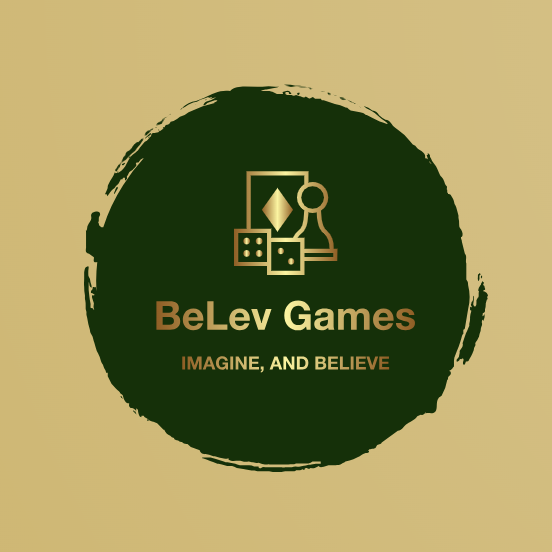
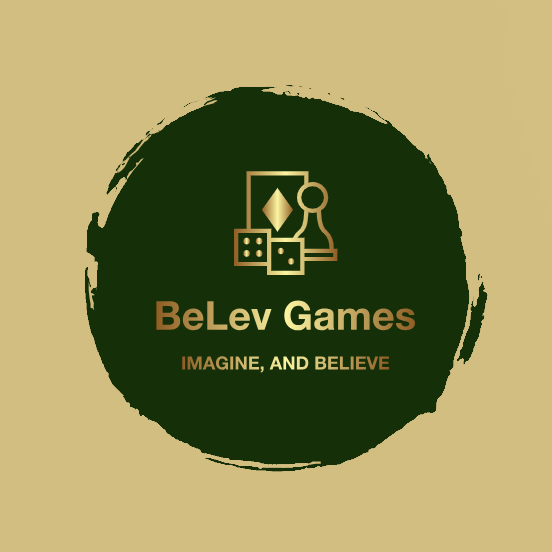
Beginning

diff --git a/src/components/Store.css b/src/components/Store.css
@@ -1,0 +1,42 @@
+/* Store.css */
+.store {
+  background-color: #d3be82;
+  border-radius: 10px;
+  padding: 20px;
+  margin: 10px;
+  display: flex; /* Use flex display to arrange components in a row */
+  flex-direction: row; /* Arrange components horizontally */
+
+  /* Adjust the width as needed */
+}
+
+.StoreContent {
+  flex: 1; /* Takes up remaining space */
+  display: flex;
+  flex-direction: row; /* Arrange Categories and Shelf in a row */
+  width: 100%; /* Ensure full width */
+  padding: 10px; /* Add some padding between components */
+}
+
+.Categories {
+  background-color: #d3be82;
+  border-radius: 10px;
+  padding: 20px;
+  margin: 10px;
+  flex: 1; /* Takes up 30% of the available space */
+}
+
+.Shelf {
+  background-color: #d3be82;
+  border-radius: 10px;
+  padding: 20px;
+  margin: 10px;
+  flex: 2; /* Takes up 70% of the available space */
+}
+
+.Store h1 {
+  font-size: 24px;
+  text-align: center;
+}
+
+/* Add any other styles you need for the Store component */

diff --git a/src/components/Store.js b/src/components/Store.js
@@ -5,6 +5,7 @@ import games from "./games/games";
 import categoriesList from "./categories/categoriesList";
 import Shelf from "./Shelf";
 import Category from "./categories/CategoryClass";
+import "./Store.css";
 
 const Store = () => {
   const [categories, setCategories] = useState([]);
@@ -20,11 +21,13 @@ const Store = () => {
     setCategories(newCategories);
   }, []);
   return (
-    <div>
+    <>
       <Navigation />
-      {/* <Categories categories={categories} onCategorySelection={setActiveCategory} /> */}
-      {/* <Shelf activeCategory={activeCategory} /> */}
-    </div>
+      <div className="store">
+        <Categories categories={categories} onCategorySelection={setActiveCategory} />
+        <Shelf activeCategory={activeCategory} />
+      </div>
+    </>
   );
 };
 

diff --git a/src/components/Title.css b/src/components/Title.css
@@ -1,10 +1,25 @@
 /* Title.css */
 
+.Title {
+  background-color: #d3be82;
+  border-radius: 10px;
+  padding: 10px;
+  margin: 10px;
+  text-align: center;
+}
+
+.Title img {
+  width: 100px;
+  height: 100px;
+  display: block;
+  margin: 0 auto;
+}
+
 .title-container {
   display: flex;
   justify-content: center;
   align-items: center;
-  background-color: #d3be81; /* Background color */
+  background-color: #d3be82; /* Background color */
   padding: 20px;
   border-radius: 10px; /* Rounded corners */
 }

diff --git a/src/components/Title.js b/src/components/Title.js
@@ -1,11 +1,12 @@
 import React from "react";
 import "./Title.css";
+import logo from "../BeLev Games.png";
 
 const Title = ({ title }) => {
   return (
     <div className="title-container">
       <div className="title-box">
-        <img src="belev-games\src\BeLev Games.png" alt="Belev Games Logo" className="title-image" />
+        <img src={logo} alt="Belev Games Logo" className="title-image" />
         <h1 className="title-text">{title}</h1>
       </div>
     </div>

diff --git a/src/components/Navigation.css b/src/components/Navigation.css
@@ -1,0 +1,23 @@
+/* Navigation.css */
+nav {
+  background-color: #d3be82;
+  border-radius: 10px;
+  padding: 10px;
+  margin: 10px;
+  display: flex;
+  justify-content: space-around; /* Space out the buttons evenly */
+}
+
+button {
+  background-color: #aa710f;
+  border: 2px solid #d3be82;
+  border-radius: 5px;
+  padding: 5px 10px;
+  cursor: pointer;
+  font-size: 16px;
+}
+
+button:hover {
+  background-color: #d3be82;
+  color: #fff;
+}

diff --git a/src/components/categories/Categories.js b/src/components/categories/Categories.js
@@ -1,8 +1,9 @@
 import React from "react";
 import Category from "./Category";
 import Title from "../Title";
+import "../Categories.css";
 
-const Categories = (categories, onCategorySelection) => {
+const Categories = ({ categories, onCategorySelection }) => {
   function handleCategorySelection(category) {
     onCategorySelection(category);
   }

diff --git a/src/components/Shelf.js b/src/components/Shelf.js
@@ -3,6 +3,9 @@ import GameCell from "./games/GameCell";
 import Title from "./Title";
 
 const Shelf = ({ activeCategory }) => {
+  if (activeCategory == null) {
+    return <Title title="Select a category"></Title>;
+  }
   return (
     <div>
       <Title title={activeCategory.title}></Title>

diff --git a/src/components/Categories.css b/src/components/Categories.css
@@ -1,0 +1,14 @@
+/* Categories.css */
+.Categories {
+  background-color: #d3be82;
+  border-radius: 10px;
+  padding: 20px;
+  margin: 10px;
+}
+
+.Categories h2 {
+  font-size: 20px;
+  text-align: center;
+}
+
+/* Add any other styles you need for the Categories component */

diff --git a/src/components/Navigation.js b/src/components/Navigation.js
@@ -1,4 +1,5 @@
 import React from "react";
+import "./Navigation.css";
 
 const Navigation = () => {
   return (
